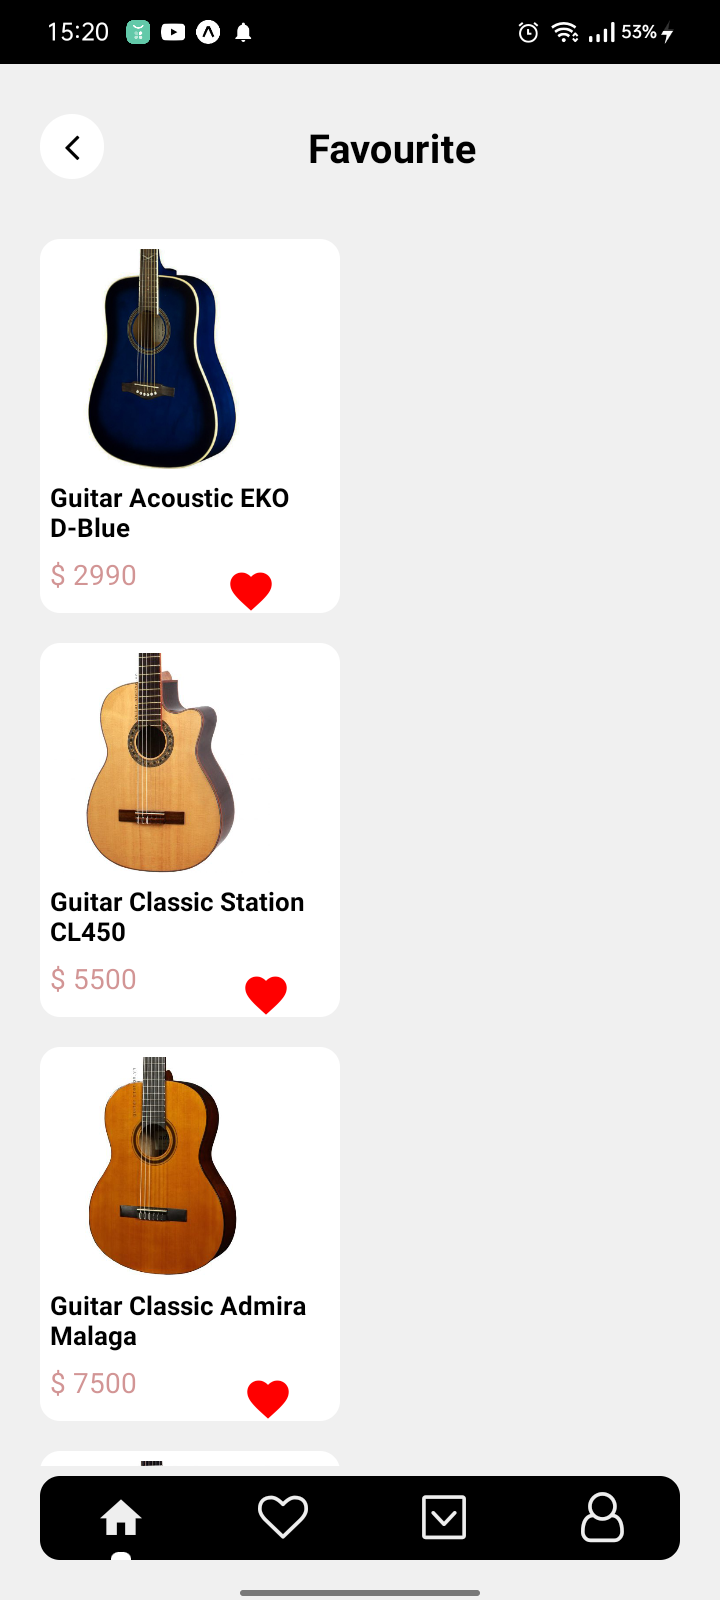
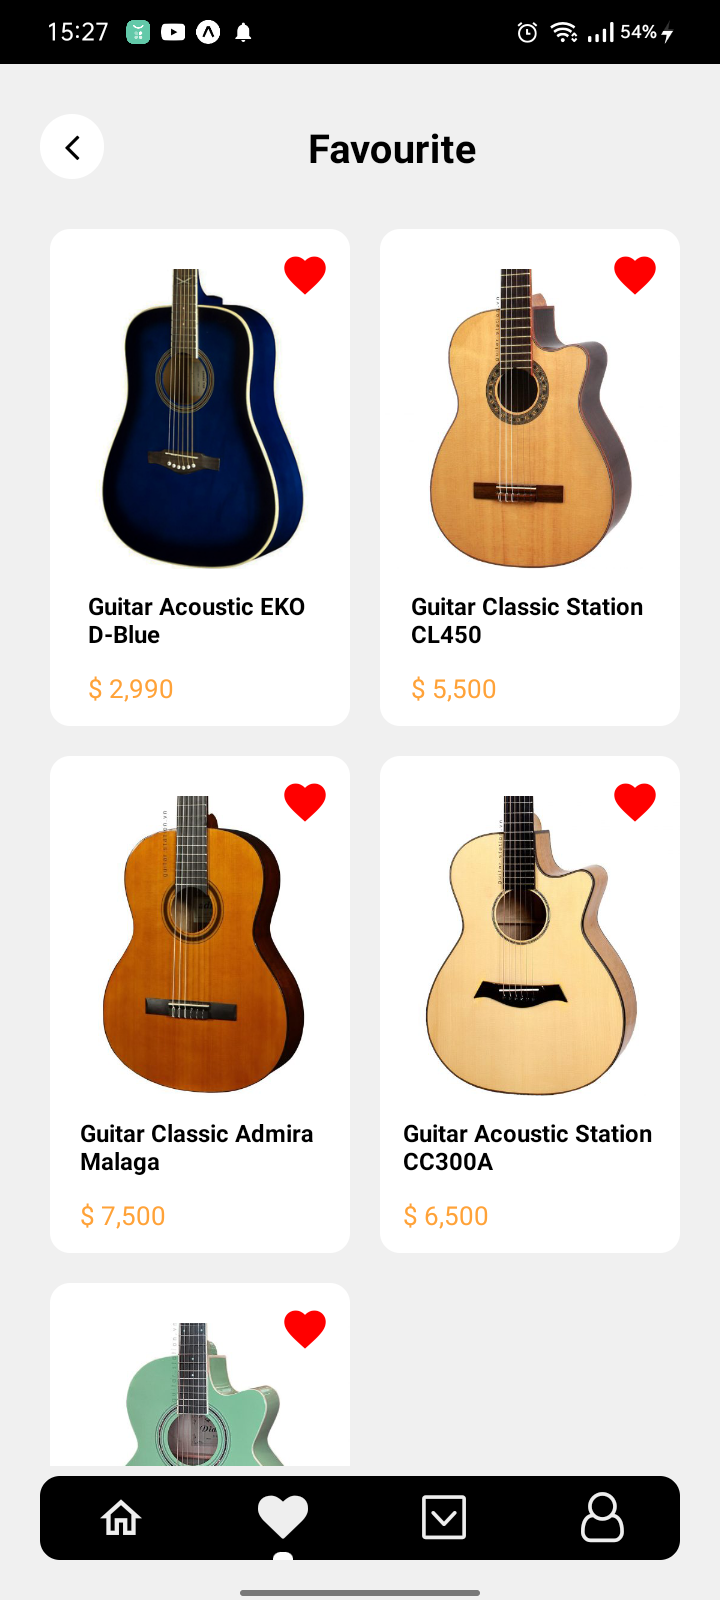
Screen 11(80%): fix flatlist numColumns

diff --git a/src/components/ComponentFavourite.js b/src/components/ComponentFavourite.js
@@ -8,6 +8,7 @@ import IconMaterialCommunityIcons from 'react-native-vector-icons/MaterialCommun
 import styles from '../themes/styles';
 import color from '../themes/color';
 import data from '../database/data';
+import xuly from '../config/xuly';
 import dataServer from '../database/dataServer';
 
 const ComponentFavourite = ({ navigation }) => {
@@ -16,18 +17,21 @@ const ComponentFavourite = ({ navigation }) => {
     const [dbGuitar, setDbGuitar] = useState([]);
 
     //
-    let { z_item, listItem } = data;
-
-    let spConlai = () => {
-        return Math.floor(Math.random() * (100 - 50)) + 50;
-    };
+    let { z_item, listItem } = data; // listData:  data ALL 
 
     //
     useEffect(() => {
-        setDbGuitar(listItem)
+        let db = []; // data Favourite
+
+        listItem.forEach(item  => {
+            if (item.favourite == true) {
+                db.push(item)
+            }
+        })
+
+        setDbGuitar(db)
     // let listData = dataServer.findAll();
     // console.log("🚀 ~ file: ComponenHome.js ~ line 21 ~ ComponenHome ~ listData", listData)
-
 
     }, [])
 
@@ -37,7 +41,7 @@ const ComponentFavourite = ({ navigation }) => {
     const renderItemFavourite = ({ item }) => {
 
         // let str_priceSale = setPriceString(Math.floor(item.price - (item.price * item.sale) / 100));
-        // let str_price = setPriceString(Math.floor(item.price));
+        let str_price = xuly.setPriceString(Math.floor(item.price));
 
         // call detail Item
         const getCallDetail = () => {
@@ -45,45 +49,48 @@ const ComponentFavourite = ({ navigation }) => {
         }
         //
 
-        if (item.favourite == false) {
-            return (
-                <View></View>
-            )
-        }
-
         return (
-            <View style={[styles.row, {
+            <View style={[, {
+                width: 150,
+                minHeight: 200,
                 backgroundColor: '#fff',
-                padding: 5,
                 borderRadius: 10,
+                paddingTop: 20,
                 alignItems: 'center',
+                marginRight: 15,
                 marginBottom: 15,
             }]} >
-                <View style={{flexDirection: 'column'}}>
-                    <Image style={[, { width: 110, height: 110 }]} source={{ uri: item.img }} />
-                    <View style={{marginVertical: 5, flexDirection:'column' }} >
-                        <TouchableOpacity onPress={() => getCallDetail()}>
-                            <Text style={[, { fontWeight: 'bold', fontSize: 13 }]}  >{item.name}</Text>
-                        </TouchableOpacity>
-                        <View style={{flexDirection: 'row'}}>
-                            <Text style={[, { opacity: 0.5, marginTop: 5, color: 'brown' }]} >$ {item.price}</Text>
-                            <TouchableOpacity style={[, {
-                            position: 'absolute',
-                            top: 10,
-                            right: 10,
-                        }]}>
+                <Image style={[, { width: 150, height: 150, }]} source={{ uri: item.img }} />
+                <View style={[, { padding: 10, }]}  >
+                    <TouchableOpacity onPress={() => getCallDetail()}>
+                        <Text style={[, {
+                            fontSize: 12,
+                            fontWeight: 'bold',
+                        }]} >{item.name}</Text>
+                    </TouchableOpacity>
+                    <Text style={[, {
+                        fontSize: 13,
+                        color: color.color_main,
+                        marginTop: 10,
+                    }]} >$ {str_price}</Text>
+                </View>
+
+                <TouchableOpacity style={[, {
+                    position: 'absolute',
+                    top: 10,
+                    right: 10,
+                }]}
+
+                >
                     <IconMaterialCommunityIcons name={item.favourite ? 'heart' : 'heart-outline'} size={25} color={item.favourite ? '#f00' : '#000'} />
                 </TouchableOpacity>
-                        </View>
-                    </View>
-                </View>
             </View>
            
         )
     }
 
     // menu bar
-    let styleMenuBarName = 1;
+    let styleMenuBarName = 2;
     // let styleMenuBarStyle = styles.menuClick;
     let styleMenuBarStyle = (val) => {
         if (val === styleMenuBarName) {
@@ -107,21 +114,15 @@ const ComponentFavourite = ({ navigation }) => {
                 </TouchableOpacity>
             </View>
             <View style={[styles.flex_1, {
-                marginTop: 20,
-                width: 150,
+                marginTop: 15,
+                marginLeft: 5,
             }]} >
 
                 <FlatList
-                    // columnWrapperStyle={{justifyContent: 'space-between'}}
-                    showsVerticalScrollIndicator={false}
-                    // contentContainerStyle={{
-                    //   marginTop: 10,
-                    //   paddingBottom: 50,
-                    // }}
-                    // numColumns={2}
                     data={dbGuitar}
                     keyExtractor={item => item.id}
                     renderItem={renderItemFavourite}
+                    numColumns={2}
                 />
 
             </View>
